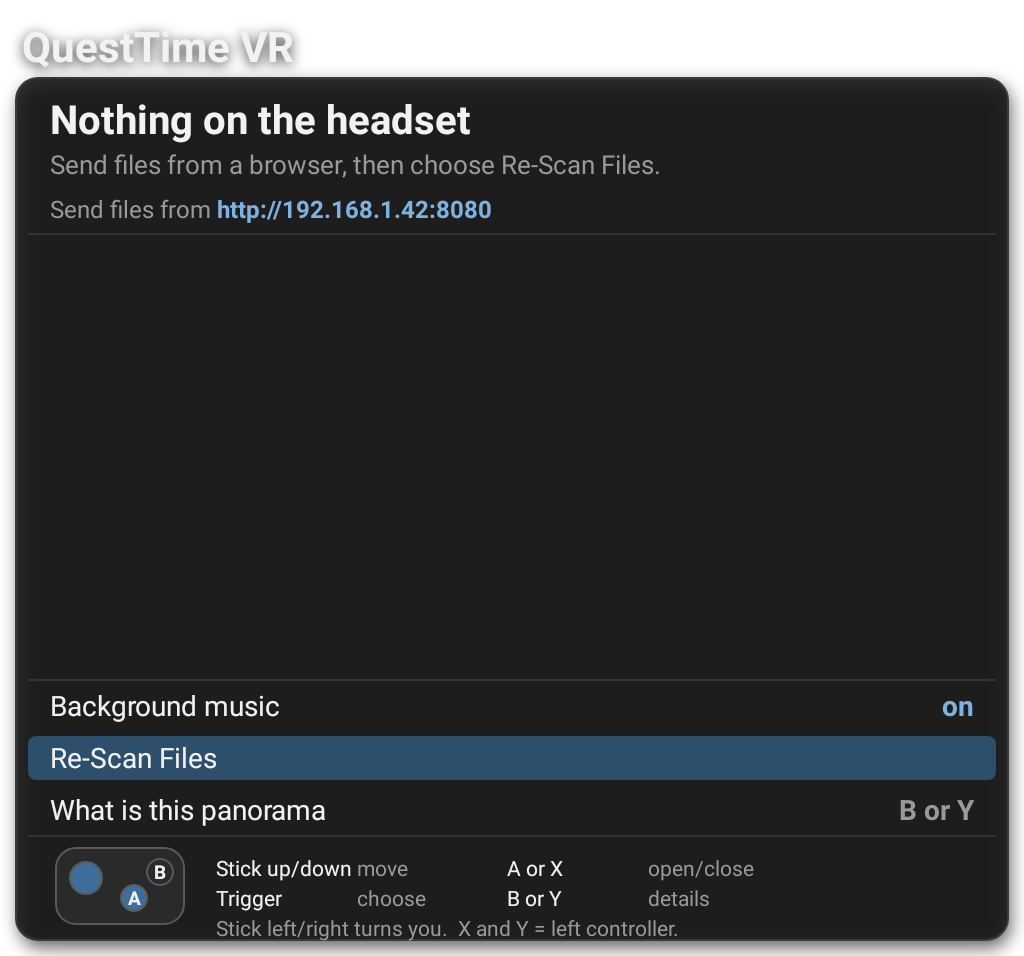
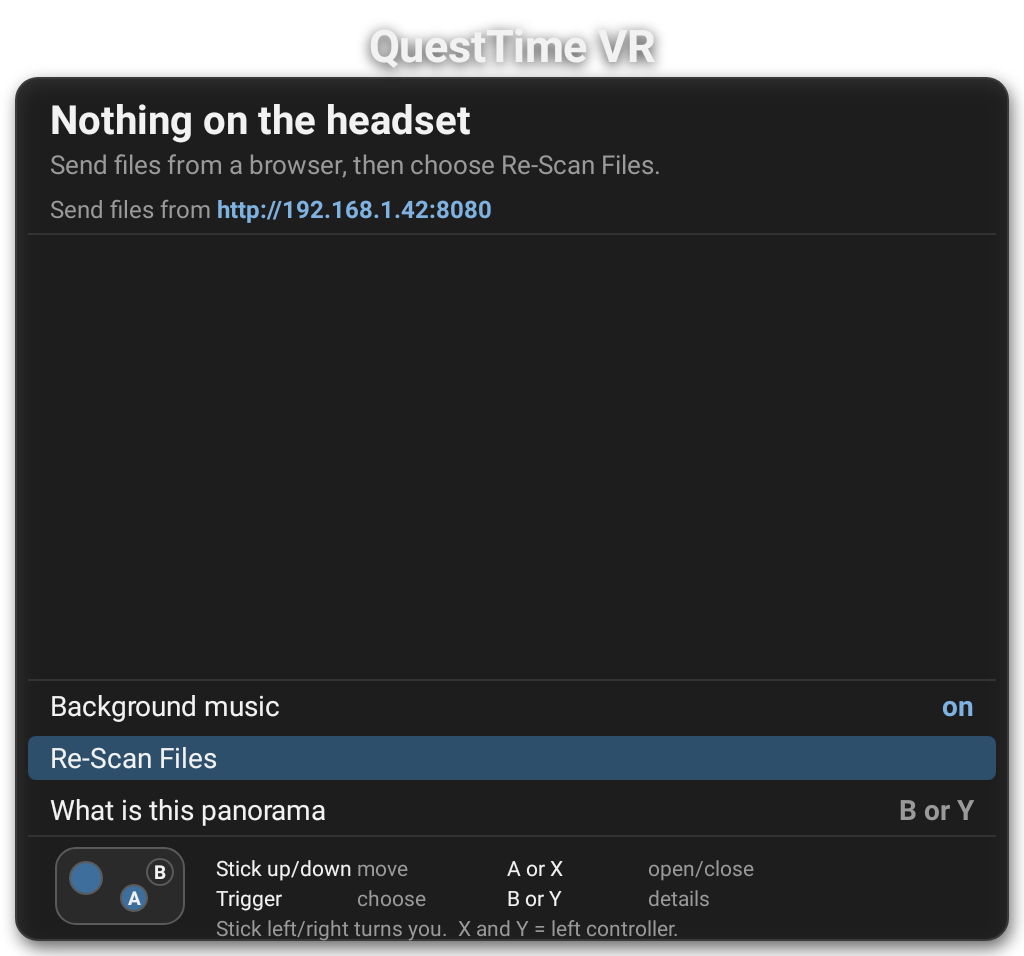
Centre the QuestTime VR title over the list, 6% larger

Changed region(s): [[0.3438, 0.0303, 0.6562, 0.091], [0.0, 0.0303, 0.3125, 0.091]]

diff --git a/android/app/src/main/java/com/questtime/vr/MenuBar.kt b/android/app/src/main/java/com/questtime/vr/MenuBar.kt
@@ -443,11 +443,16 @@ object MenuBar {
     private fun brand(c: Canvas, panel: RectF) {
         val p = Paint(Paint.ANTI_ALIAS_FLAG).apply {
             color = TEXT
-            textSize = 42f
+            // 6% up from 42. BRAND_H leaves 62 px above the panel, and the cap height
+            // plus the shadow's reach still clears the top of the bitmap at this size.
+            textSize = 44.5f
             typeface = Typeface.create(UI, Typeface.BOLD)
+            textAlign = Paint.Align.CENTER
             setShadowLayer(10f, 0f, 3f, 0xCC000000.toInt())
         }
-        c.drawText("QuestTime VR", panel.left + 6f, panel.top - 16f, p)
+        // Centred over the panel rather than flush with its edge: it is a title for
+        // the whole thing, not the first line of the list.
+        c.drawText("QuestTime VR", panel.centerX(), panel.top - 16f, p)
     }
 
     private fun address(c: Canvas, panel: RectF, inset: Float, url: String?) {
